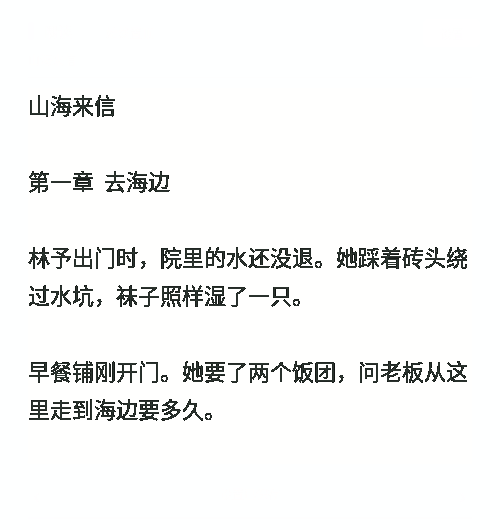
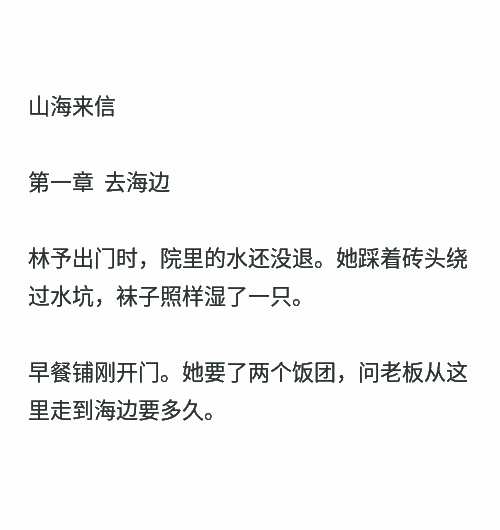
Render transparent text with per-pixel alpha

diff --git a/cmd/floatreader/main_windows.go b/cmd/floatreader/main_windows.go
@@ -54,6 +54,13 @@ type layoutSignature struct {
 	width, height, fontSize, lineSpace, charLimit, dpi int
 }
 
+type textRenderSignature struct {
+	book                               *bookSource
+	start, end                         int64
+	width, height, fontSize, lineSpace int
+	dpi, theme, textOpacity            int
+}
+
 var palettes = []Palette{
 	{w.RGB(247, 244, 236), w.RGB(43, 52, 46), w.RGB(121, 128, 116), w.RGB(51, 105, 78), w.RGB(232, 236, 222), w.RGB(221, 225, 213)},
 	{w.RGB(30, 36, 35), w.RGB(222, 226, 215), w.RGB(145, 157, 145), w.RGB(157, 197, 153), w.RGB(47, 57, 51), w.RGB(62, 73, 64)},
@@ -77,10 +84,12 @@ type App struct {
 	history                                []int64
 	historyPos                             int
 	lastLayout                             layoutSignature
+	lastTextRender                         textRenderSignature
 	path, bookName, encoding               string
 	lastOpenError                          string
 	hidden, modal, sizing, dirty           bool
 	resizeChanged                          bool
+	textDirty, textRenderOK                bool
 	startSize                              w.Size
 	trayAdded                              bool
 	taskbarCreated                         uint32
@@ -241,11 +250,14 @@ func (a *App) notify(s string) {
 	a.invalidate()
 }
 func (a *App) newFont(size, weight int) uintptr {
+	return a.newFontWithQuality(size, weight, 5)
+}
+func (a *App) newFontWithQuality(size, weight, quality int) uintptr {
 	face := a.fontFace
 	if face == "" {
 		face = "Microsoft YaHei UI"
 	}
-	return w.G("CreateFontW", w.Signed(-a.px(size)), 0, 0, 0, uintptr(weight), 0, 0, 0, 1, 0, 0, 5, 0, uintptr(unsafe.Pointer(w.Str(face))))
+	return w.G("CreateFontW", w.Signed(-a.px(size)), 0, 0, 0, uintptr(weight), 0, 0, 0, 1, 0, 0, uintptr(quality), 0, uintptr(unsafe.Pointer(w.Str(face))))
 }
 func (a *App) rebuildFonts() {
 	for _, f := range []uintptr{a.bodyFont, a.uiFont, a.smallFont, a.titleFont} {
@@ -253,7 +265,9 @@ func (a *App) rebuildFonts() {
 			w.G("DeleteObject", f)
 		}
 	}
-	a.bodyFont = a.newFont(a.cfg.FontSize, 400)
+	// Grayscale antialiasing produces a clean alpha mask for the transparent
+	// text layer. ClearType's RGB subpixels would turn into coloured fringes.
+	a.bodyFont = a.newFontWithQuality(a.cfg.FontSize, 400, 4)
 	a.uiFont = a.newFont(14, 400)
 	a.smallFont = a.newFont(12, 400)
 	a.titleFont = a.newFont(22, 600)
@@ -272,18 +286,30 @@ func (a *App) applyAppearance() {
 
 func (a *App) createTextLayer() {
 	a.textHwnd = w.U("CreateWindowExW", w.WS_EX_TOPMOST|w.WS_EX_TOOLWINDOW|w.WS_EX_LAYERED|w.WS_EX_NOACTIVATE, uintptr(unsafe.Pointer(w.Str(textClass))), 0, w.WS_POPUP, 0, 0, 1, 1, a.hwnd, 0, a.instance, 0)
+	a.textDirty = true
 }
 
 func (a *App) applyTextAppearance() {
-	if a.textHwnd != 0 {
-		w.U("SetLayeredWindowAttributes", a.textHwnd, transparentKey, uintptr(a.cfg.TextOpacity*255/100), 1|2)
-	}
+	a.invalidateTextLayer()
+	a.syncTextLayer()
 }
 
 func (a *App) invalidateTextLayer() {
-	if a.textHwnd != 0 {
-		w.U("InvalidateRect", a.textHwnd, 0, 0)
+	a.textDirty = true
+}
+
+func (a *App) positionTextLayer() {
+	if a.textHwnd == 0 {
+		return
 	}
+	if a.book == nil || a.hidden || a.modal || !a.textRenderOK || w.U("IsWindowVisible", a.hwnd) == 0 {
+		w.U("ShowWindow", a.textHwnd, w.SW_HIDE)
+		return
+	}
+	mainBounds := w.Bounds(a.hwnd)
+	content := a.contentRect()
+	w.U("SetWindowPos", a.textHwnd, w.Topmost, w.Signed(int(mainBounds.Left+content.Left)), w.Signed(int(mainBounds.Top+content.Top)), uintptr(content.Width()), uintptr(content.Height()), w.SWP_NOACTIVATE)
+	w.U("ShowWindow", a.textHwnd, w.SW_SHOWNOACTIVATE)
 }
 
 func (a *App) syncTextLayer() {
@@ -296,9 +322,26 @@ func (a *App) syncTextLayer() {
 	}
 	mainBounds := w.Bounds(a.hwnd)
 	content := a.contentRect()
-	w.U("SetWindowPos", a.textHwnd, w.Topmost, w.Signed(int(mainBounds.Left+content.Left)), w.Signed(int(mainBounds.Top+content.Top)), uintptr(content.Width()), uintptr(content.Height()), w.SWP_NOACTIVATE)
+	x, y := int(mainBounds.Left+content.Left), int(mainBounds.Top+content.Top)
+	sig := textRenderSignature{
+		book: a.book, start: a.view.Start, end: a.view.End,
+		width: content.Width(), height: content.Height(), fontSize: a.cfg.FontSize,
+		lineSpace: a.cfg.LineSpace, dpi: a.dpi, theme: a.cfg.Theme, textOpacity: a.cfg.TextOpacity,
+	}
+	if a.textDirty || sig != a.lastTextRender {
+		a.textRenderOK = a.renderTextLayer(x, y, content.Width(), content.Height())
+		if a.textRenderOK {
+			a.lastTextRender = sig
+			a.textDirty = false
+		}
+	} else {
+		w.U("SetWindowPos", a.textHwnd, w.Topmost, w.Signed(x), w.Signed(y), uintptr(content.Width()), uintptr(content.Height()), w.SWP_NOACTIVATE)
+	}
+	if !a.textRenderOK {
+		w.U("ShowWindow", a.textHwnd, w.SW_HIDE)
+		return
+	}
 	w.U("ShowWindow", a.textHwnd, w.SW_SHOWNOACTIVATE)
-	a.invalidateTextLayer()
 }
 func (a *App) ensureOnScreen() {
 	r := w.Bounds(a.hwnd)
@@ -604,7 +647,7 @@ func mainProc(hwnd uintptr, msg uint32, wp, lp uintptr) uintptr {
 		a.paint(hwnd)
 		return 0
 	case w.WM_MOVE:
-		a.syncTextLayer()
+		a.positionTextLayer()
 		return 0
 	case w.WM_SIZE:
 		if a.hwnd != 0 && a.bodyFont != 0 {
@@ -617,12 +660,12 @@ func mainProc(hwnd uintptr, msg uint32, wp, lp uintptr) uintptr {
 					w.U("SetTimer", hwnd, 2, 70, 0)
 				}
 				a.invalidate()
+				a.positionTextLayer()
 			} else {
 				a.paginate()
 			}
 			a.dirty = true
 		}
-		a.syncTextLayer()
 		return 0
 	case w.WM_ENTERSIZEMOVE:
 		a.sizing = true
@@ -665,6 +708,7 @@ func mainProc(hwnd uintptr, msg uint32, wp, lp uintptr) uintptr {
 		}
 		if !a.hidden {
 			w.U("SetWindowPos", hwnd, w.Topmost, 0, 0, 0, 0, w.SWP_NOSIZE|w.SWP_NOMOVE|w.SWP_NOACTIVATE)
+			a.positionTextLayer()
 			if a.dialog != 0 {
 				w.U("SetWindowPos", a.dialog, w.Topmost, 0, 0, 0, 0, w.SWP_NOSIZE|w.SWP_NOMOVE|w.SWP_NOACTIVATE)
 			}

diff --git a/cmd/floatreader/smoke_windows.go b/cmd/floatreader/smoke_windows.go
@@ -27,6 +27,15 @@ type Smoke struct {
 	dummy      uintptr
 	fileDialog uintptr
 	events     []string
+	textPixels []byte
+	textWidth  int
+	textHeight int
+}
+
+func (s *Smoke) rememberTextLayer(pixels []byte, width, height int) {
+	s.textPixels = append(s.textPixels[:0], pixels...)
+	s.textWidth = width
+	s.textHeight = height
 }
 
 func (s *Smoke) prepareFont(a *App) {
@@ -138,11 +147,13 @@ func (s *Smoke) step(a *App) {
 		s.check("numeric dimensions and font saved", a.applySettings())
 		r := w.Bounds(a.hwnd)
 		s.check("width height applied", a.dip(r.Width()) == 500 && a.dip(r.Height()) == 530, r)
-		var mainColor, textColor, mainFlags, textFlags uint32
-		var mainAlpha, textAlpha byte
+		var mainColor, mainFlags uint32
+		var mainAlpha byte
 		mainLayered := w.U("GetLayeredWindowAttributes", a.hwnd, uintptr(unsafe.Pointer(&mainColor)), uintptr(unsafe.Pointer(&mainAlpha)), uintptr(unsafe.Pointer(&mainFlags)))
-		textLayered := w.U("GetLayeredWindowAttributes", a.textHwnd, uintptr(unsafe.Pointer(&textColor)), uintptr(unsafe.Pointer(&textAlpha)), uintptr(unsafe.Pointer(&textFlags)))
-		s.check("low background opacity keeps a separate visible text layer", mainLayered != 0 && mainAlpha == 2 && mainFlags&2 != 0 && textLayered != 0 && textColor == uint32(transparentKey) && textAlpha == 255 && textFlags&3 == 3 && w.U("IsWindowVisible", a.textHwnd) != 0, fmt.Sprintf("main alpha=%d flags=%d; text color=%06x alpha=%d flags=%d", mainAlpha, mainFlags, textColor, textAlpha, textFlags))
+		mask := []byte{0, 0, 0, 0, 255, 255, 255, 0}
+		premultiplyTextMask(mask, w.RGB(40, 80, 120), 50)
+		cleanMask := mask[0] == 0 && mask[1] == 0 && mask[2] == 0 && mask[3] == 0 && mask[7] == 127 && mask[4] <= mask[7] && mask[5] <= mask[7] && mask[6] <= mask[7]
+		s.check("low background opacity keeps a clean per-pixel text layer", mainLayered != 0 && mainAlpha == 2 && mainFlags&2 != 0 && a.textRenderOK && cleanMask && w.U("IsWindowVisible", a.textHwnd) != 0, fmt.Sprintf("main alpha=%d flags=%d; text render=%t", mainAlpha, mainFlags, a.textRenderOK))
 		s.shot(a.hwnd, "03-low-background")
 		a.openSettings()
 		w.SetText(a.fields[fOpacity], "0")
@@ -340,25 +351,24 @@ func capture(hwnd uintptr, path string) error {
 		return err
 	}
 	if app != nil && hwnd == app.hwnd && app.textHwnd != 0 && app.book != nil {
-		text, err := captureWindow(app.textHwnd)
-		if err != nil {
-			return err
-		}
-		for i := 3; i < len(im.Pix); i += 4 {
-			im.Pix[i] = byte(app.cfg.Opacity * 255 / 100)
-		}
-		for y := 0; y < text.Bounds().Dy(); y++ {
-			for x := 0; x < text.Bounds().Dx(); x++ {
-				pixel := text.RGBAAt(x, y)
-				if pixel.R == 1 && pixel.G == 0 && pixel.B == 1 {
-					pixel.A = 0
-				} else {
-					pixel.A = byte(app.cfg.TextOpacity * 255 / 100)
-				}
-				text.SetRGBA(x, y, pixel)
-			}
-		}
 		content := app.contentRect()
+		if app.smoke == nil || app.smoke.textWidth != content.Width() || app.smoke.textHeight != content.Height() || len(app.smoke.textPixels) != content.Width()*content.Height()*4 {
+			return fmt.Errorf("text layer pixels not available")
+		}
+		backgroundAlpha := byte(app.cfg.Opacity * 255 / 100)
+		for i := 0; i+3 < len(im.Pix); i += 4 {
+			im.Pix[i] = byte(uint16(im.Pix[i]) * uint16(backgroundAlpha) / 255)
+			im.Pix[i+1] = byte(uint16(im.Pix[i+1]) * uint16(backgroundAlpha) / 255)
+			im.Pix[i+2] = byte(uint16(im.Pix[i+2]) * uint16(backgroundAlpha) / 255)
+			im.Pix[i+3] = backgroundAlpha
+		}
+		text := image.NewRGBA(image.Rect(0, 0, app.smoke.textWidth, app.smoke.textHeight))
+		for i := 0; i+3 < len(app.smoke.textPixels); i += 4 {
+			text.Pix[i] = app.smoke.textPixels[i+2]
+			text.Pix[i+1] = app.smoke.textPixels[i+1]
+			text.Pix[i+2] = app.smoke.textPixels[i]
+			text.Pix[i+3] = app.smoke.textPixels[i+3]
+		}
 		draw.Draw(im, image.Rect(int(content.Left), int(content.Top), int(content.Right), int(content.Bottom)), text, image.Point{}, draw.Over)
 	}
 	f, err := os.Create(path)

diff --git a/cmd/floatreader/paint_windows.go b/cmd/floatreader/paint_windows.go
@@ -8,7 +8,18 @@ import (
 
 type hitRect struct{ x, y, width, height int }
 
-var transparentKey = w.RGB(1, 0, 1)
+type dibHeader struct {
+	Size                   uint32
+	Width, Height          int32
+	Planes, BitCount       uint16
+	Compression, ImageSize uint32
+	X, Y                   int32
+	Used, Important        uint32
+}
+
+type blendFunction struct {
+	Operation, Flags, Alpha, Format byte
+}
 
 func (r hitRect) contains(x, y int) bool {
 	return x >= r.x && x <= r.x+r.width && y >= r.y && y <= r.y+r.height
@@ -116,29 +127,62 @@ func (a *App) drawPageText(dc uintptr, p Palette, content w.Rect) {
 	w.G("RestoreDC", dc, w.Signed(-1))
 }
 
-func (a *App) paintTextLayer(hwnd uintptr) {
-	var ps w.Paint
-	screen := w.U("BeginPaint", hwnd, uintptr(unsafe.Pointer(&ps)))
-	r := w.Client(hwnd)
-	if r.Width() < 1 || r.Height() < 1 {
-		w.U("EndPaint", hwnd, uintptr(unsafe.Pointer(&ps)))
-		return
+func premultiplyTextMask(pixels []byte, ink uintptr, opacity int) {
+	red := byte(ink)
+	green := byte(ink >> 8)
+	blue := byte(ink >> 16)
+	scale := byte(clamp(opacity, 0, 100) * 255 / 100)
+	for i := 0; i+3 < len(pixels); i += 4 {
+		coverage := max(pixels[i], max(pixels[i+1], pixels[i+2]))
+		alpha := byte(uint16(coverage) * uint16(scale) / 255)
+		pixels[i] = byte(uint16(blue) * uint16(alpha) / 255)
+		pixels[i+1] = byte(uint16(green) * uint16(alpha) / 255)
+		pixels[i+2] = byte(uint16(red) * uint16(alpha) / 255)
+		pixels[i+3] = alpha
 	}
+}
+
+func (a *App) renderTextLayer(x, y, width, height int) bool {
+	if a.textHwnd == 0 || width < 1 || height < 1 {
+		return false
+	}
+	screen := w.U("GetDC", 0)
+	if screen == 0 {
+		return false
+	}
+	defer w.U("ReleaseDC", 0, screen)
 	dc := w.G("CreateCompatibleDC", screen)
-	bmp := w.G("CreateCompatibleBitmap", screen, uintptr(r.Width()), uintptr(r.Height()))
+	if dc == 0 {
+		return false
+	}
+	defer w.G("DeleteDC", dc)
+	info := dibHeader{Size: uint32(unsafe.Sizeof(dibHeader{})), Width: int32(width), Height: -int32(height), Planes: 1, BitCount: 32}
+	var bits uintptr
+	bmp := w.G("CreateDIBSection", dc, uintptr(unsafe.Pointer(&info)), 0, uintptr(unsafe.Pointer(&bits)), 0, 0)
+	if bmp == 0 || bits == 0 {
+		return false
+	}
+	defer w.G("DeleteObject", bmp)
 	old := w.G("SelectObject", dc, bmp)
-	defer func() {
-		w.G("BitBlt", screen, 0, 0, uintptr(r.Width()), uintptr(r.Height()), dc, 0, 0, 0x00cc0020)
-		w.G("SelectObject", dc, old)
-		w.G("DeleteObject", bmp)
-		w.G("DeleteDC", dc)
-		w.U("EndPaint", hwnd, uintptr(unsafe.Pointer(&ps)))
-	}()
-	w.Fill(dc, r, transparentKey)
+	defer w.G("SelectObject", dc, old)
+	pixels := unsafe.Slice((*byte)(unsafe.Pointer(bits)), width*height*4)
+	clear(pixels)
 	w.G("SetBkMode", dc, 1)
 	if a.book != nil && len(a.view.Text) > 0 {
-		a.drawPageText(dc, a.pal(), r)
+		mask := a.pal()
+		mask.Ink = w.RGB(255, 255, 255)
+		a.drawPageText(dc, mask, w.Rect{Right: int32(width), Bottom: int32(height)})
 	}
+	w.G("GdiFlush")
+	premultiplyTextMask(pixels, a.pal().Ink, a.cfg.TextOpacity)
+	if a.smoke != nil {
+		a.smoke.rememberTextLayer(pixels, width, height)
+	}
+	destination := w.Point{X: int32(x), Y: int32(y)}
+	size := w.Size{CX: int32(width), CY: int32(height)}
+	source := w.Point{}
+	blend := blendFunction{Alpha: 255, Format: 1}
+	return w.U("UpdateLayeredWindow", a.textHwnd, screen, uintptr(unsafe.Pointer(&destination)), uintptr(unsafe.Pointer(&size)), dc, uintptr(unsafe.Pointer(&source)), 0, uintptr(unsafe.Pointer(&blend)), 2) != 0
 }
 
 func textProc(hwnd uintptr, msg uint32, wp, lp uintptr) uintptr {
@@ -154,7 +198,9 @@ func textProc(hwnd uintptr, msg uint32, wp, lp uintptr) uintptr {
 	case w.WM_ERASEBKGND:
 		return 1
 	case w.WM_PAINT:
-		a.paintTextLayer(hwnd)
+		var ps w.Paint
+		w.U("BeginPaint", hwnd, uintptr(unsafe.Pointer(&ps)))
+		w.U("EndPaint", hwnd, uintptr(unsafe.Pointer(&ps)))
 		return 0
 	}
 	return w.U("DefWindowProcW", hwnd, uintptr(msg), wp, lp)

diff --git a/scripts/resources.py b/scripts/resources.py
@@ -26,15 +26,15 @@ def block(key, value=b"", children=(), kind=1, value_length=None):
 
 
 def version():
-    fixed = pack("<13I", 0xFEEF04BD, 0x10000, 0x10000, 0x30000, 0x10000, 0x30000,
+    fixed = pack("<13I", 0xFEEF04BD, 0x10000, 0x10000, 0x40000, 0x10000, 0x40000,
                  0x3F, 0, 0x40004, 1, 0, 0, 0)
     fields = {
         "FileDescription": "隅读 · 无边框悬浮小说阅读器",
-        "FileVersion": "1.0.3.0",
+        "FileVersion": "1.0.4.0",
         "InternalName": "FloatReader",
         "OriginalFilename": "FloatReader.exe",
         "ProductName": "隅读 · Float Reader",
-        "ProductVersion": "1.0.3",
+        "ProductVersion": "1.0.4",
         "LegalCopyright": "Copyright © 2026 Float Reader",
     }
     strings = block("StringFileInfo", children=[block("080404B0", children=[

diff --git a/scripts/package.py b/scripts/package.py
@@ -7,7 +7,7 @@ from pathlib import Path
 
 ROOT = Path(__file__).resolve().parents[1]
 DIST = ROOT / 'dist'
-VERSION = '1.0.3'
+VERSION = '1.0.4'
 
 
 def write_zip(path, entries):

diff --git a/docs/使用说明.md b/docs/使用说明.md
@@ -18,7 +18,7 @@
 
 只移动窗口不会重新读取或分页。拉伸窗口，或修改字号、行距后，字数改为随窗口大小变化，程序只重排当前页并保留阅读位置。
 
-配色有暖白、深色和浅蓝。设置里的“背景不透明度”和“文字不透明度”互不影响，都能设为 0–100。背景调到 1% 时，正文仍按文字不透明度显示；背景调到 0% 时，标题、设置按钮和底栏会完全隐去，只留下正文。需要在深色桌面上阅读时，可以选“深色”配色，再把背景调到 0%。此时右键正文可以打开设置，也可以选择“移动窗口…”。修改后点击“保存设置”；点“取消”则放弃这次修改。
+配色有暖白、深色和浅蓝。设置里的“背景不透明度”和“文字不透明度”互不影响，都能设为 0–100。背景调到 1% 时，正文仍按文字不透明度显示；背景调到 0% 时，标题、设置按钮和底栏会完全隐去，只留下正文。文字边缘使用逐像素透明，不会带出透明底色的彩边或残影。需要在深色桌面上阅读时，可以选“深色”配色，再把背景调到 0%。此时右键正文可以打开设置，也可以选择“移动窗口…”。修改后点击“保存设置”；点“取消”则放弃这次修改。
 
 ## 隐藏和退出
 

diff --git a/docs/测试记录.md b/docs/测试记录.md
@@ -1,6 +1,6 @@
 # 测试记录
 
-版本：1.0.3。日期：2026-09-10。
+版本：1.0.4。日期：2026-09-10。
 
 ## 环境
 
@@ -10,7 +10,7 @@ Wine 中的中文截图使用 Noto Sans CJK，Windows 下程序使用 Microsoft 
 
 ## 结果
 
-分页单元测试、Windows 静态检查和 53 项窗口检查通过。窗口检查包括分块导入、翻页、老板键、尺寸和字数设置、背景与文字分层透明、快捷键冲突、进度保存，以及 200% 缩放下设置按钮是否超出屏幕。
+分页单元测试、Windows 静态检查和 53 项窗口检查通过。窗口检查包括分块导入、翻页、老板键、尺寸和字数设置、逐像素文字透明、快捷键冲突、进度保存，以及 200% 缩放下设置按钮是否超出屏幕。
 
 数据见 [qa-report.json](qa-report.json)。长文本测试使用 100 万字的重复文本，检查首屏只读取一个 64 KB 文件块。移动窗口的检查会对比读取次数，确认位置变化没有触发重新加载。
 
